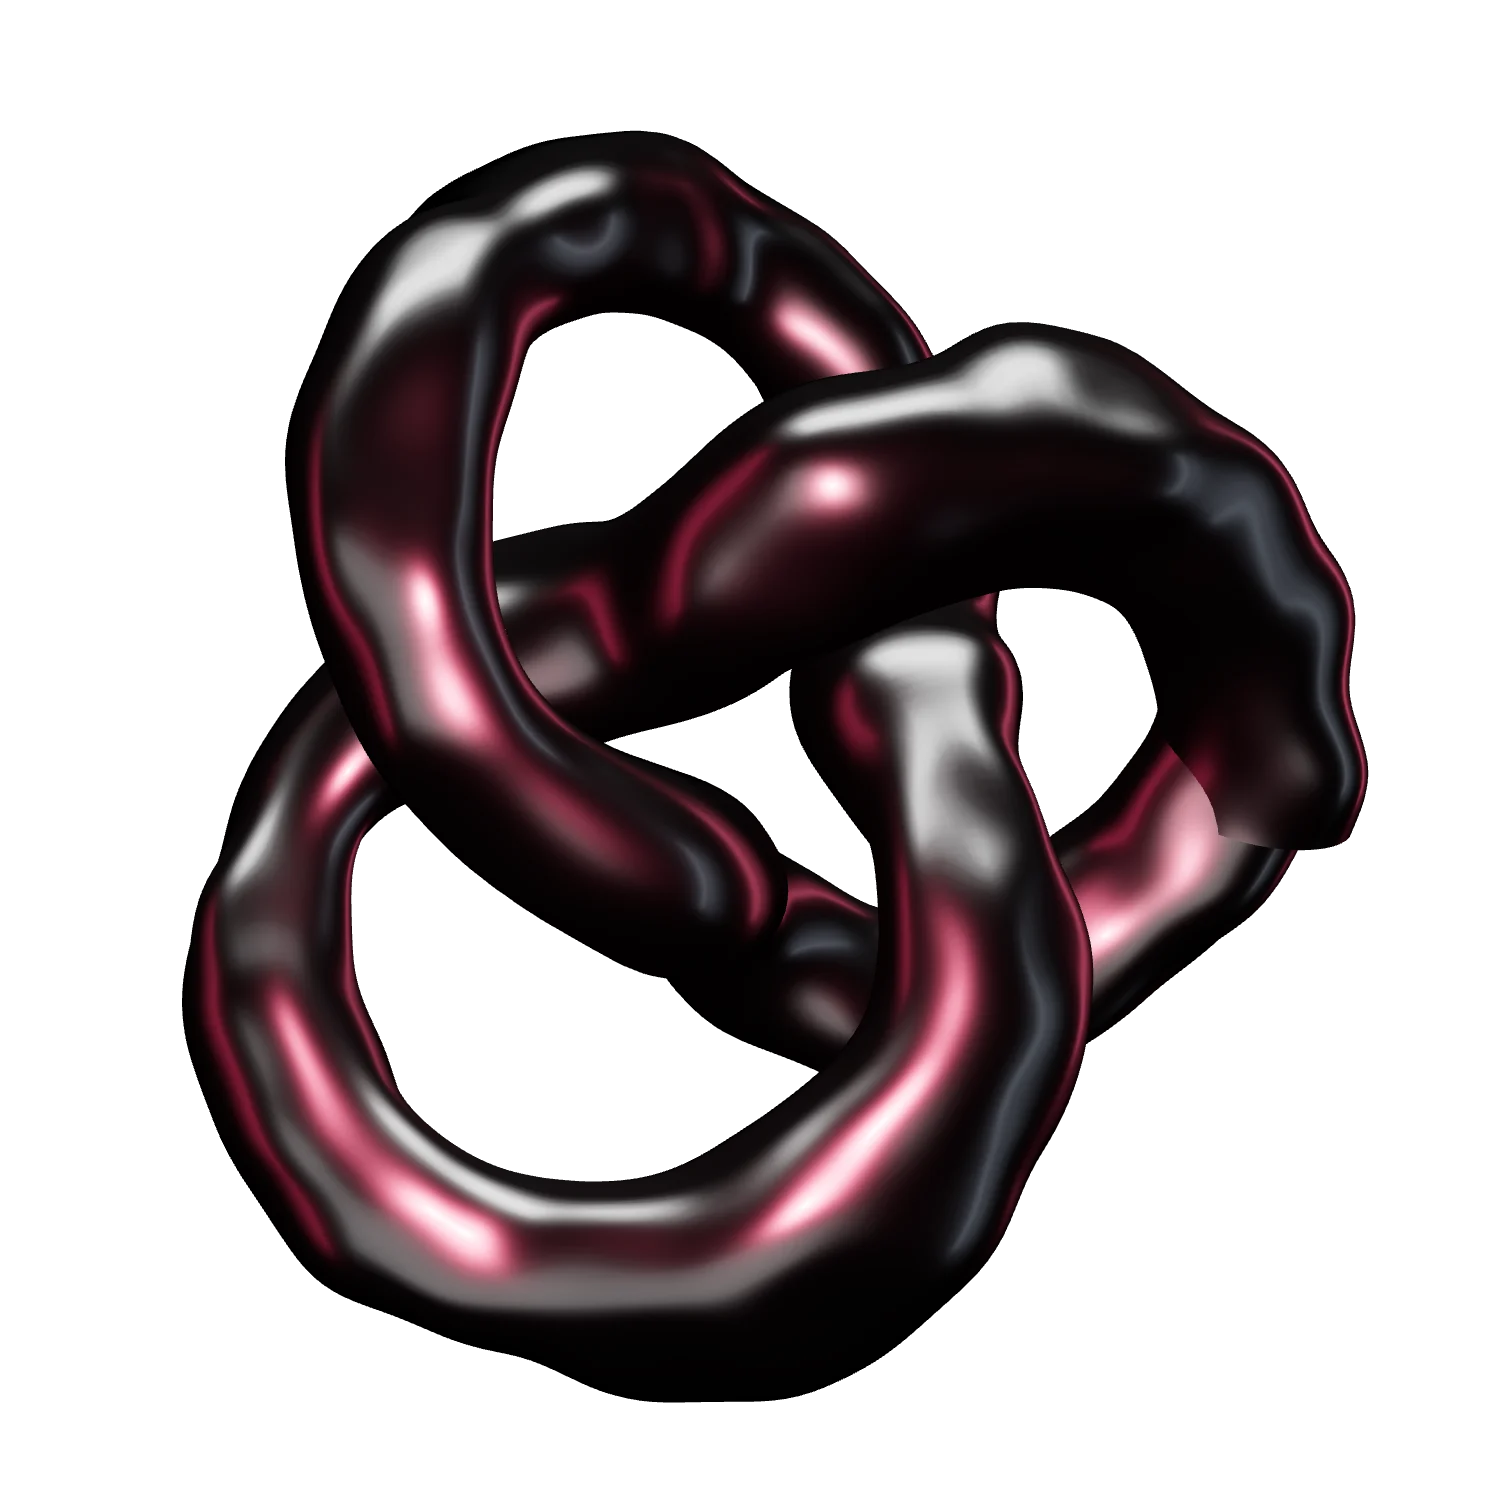
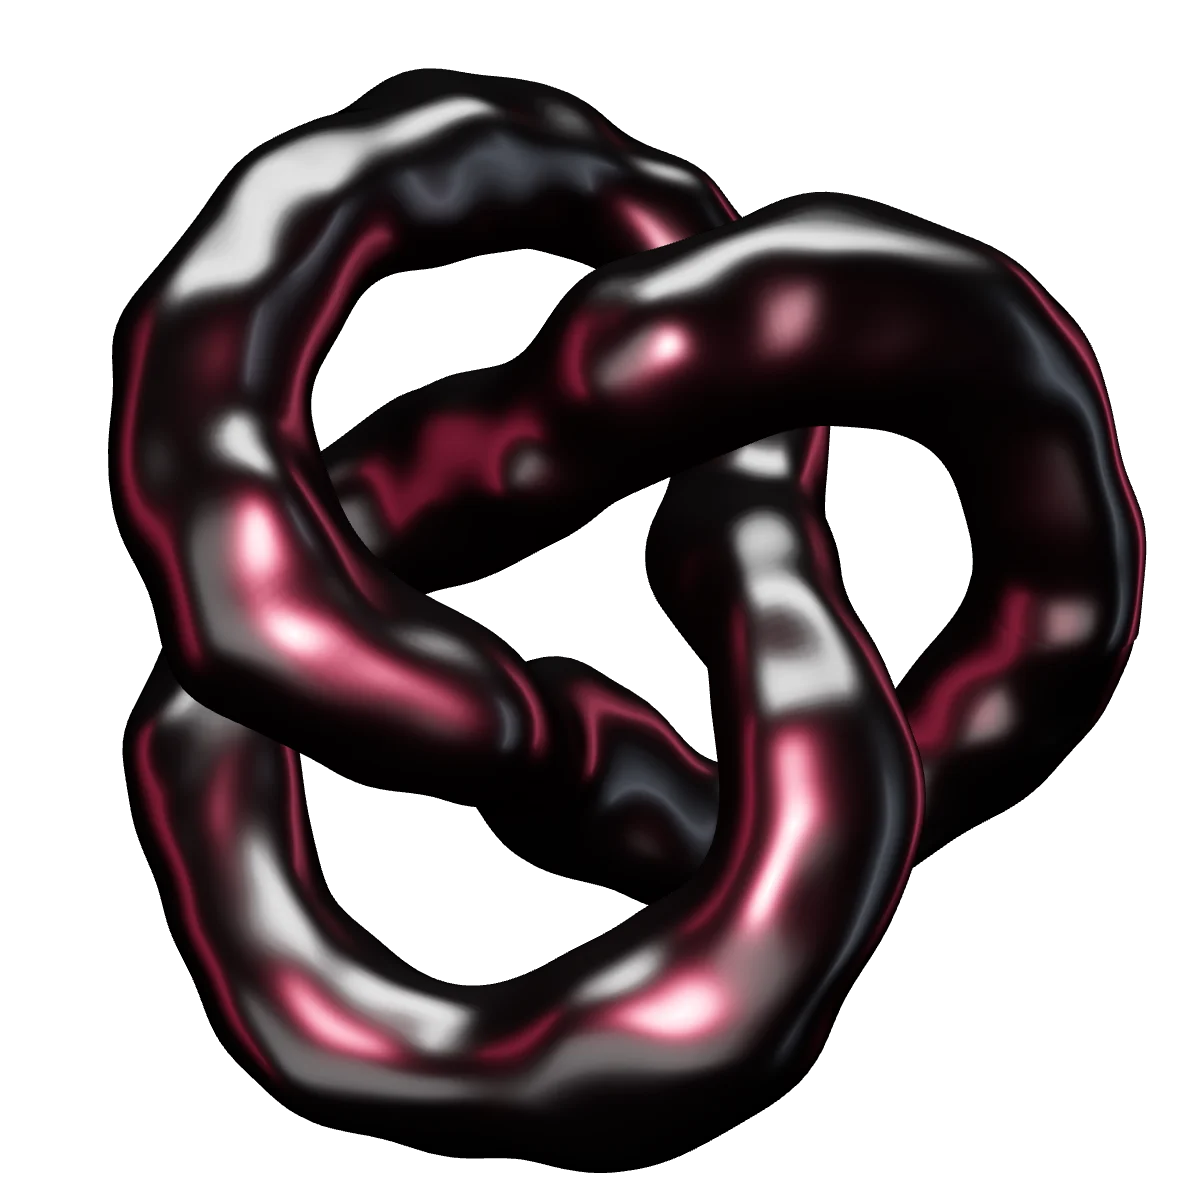
Escultura acorda quando o visitante interage

diff --git a/public/assets/js/escultura.js b/public/assets/js/escultura.js
@@ -22,7 +22,7 @@ const AJUSTES = {
   tamanho: 1.3,
   deformacao: 0.10,
   frequencia: 0.73,
-  velocidade: 1.1,
+  velocidade: 0.6,
   rugosidade: 0.32,
   luzVinho: 6,
 };
@@ -230,9 +230,22 @@ async function esperarRolagemParar() {
  * Liga a escultura a um <canvas>. É assíncrona: monta em etapas e só começa
  * a desenhar quando tudo está pronto.
  * @param {HTMLCanvasElement} canvas
- * @param {{ aoPrimeiroQuadro?: () => void }} opcoes
+ * @param {{ aoPrimeiroQuadro?: () => void, aoMudarEnergia?: (energia: number) => void }} opcoes
  */
-export async function iniciarEscultura(canvas, { aoPrimeiroQuadro } = {}) {
+export async function iniciarEscultura(canvas, { aoPrimeiroQuadro, aoMudarEnergia } = {}) {
+  /* ---- A escultura acorda quando o visitante está presente ----
+     Ela começa quase parada e apagada ("energia" 0). Quando a pessoa rola,
+     toca, mexe o mouse ou aperta uma tecla, ela acorda (energia 1): ganha
+     brilho e volta a se mexer. Depois de alguns segundos sem interação, ela
+     se acalma de novo. É a presença de quem visita que solta o nó.
+     O brilho é aplicado pela página (aoMudarEnergia); aqui fica o movimento. */
+  const SEGUNDOS_ACORDADA = 6;
+  let ultimaInteracao = -Infinity;
+  let energia = 0;
+  for (const ev of ['scroll', 'pointermove', 'touchstart', 'wheel', 'keydown']) {
+    window.addEventListener(ev, () => { ultimaInteracao = performance.now(); }, { passive: true });
+  }
+
   const renderer = new THREE.WebGLRenderer({ canvas, antialias: !ehCelular, alpha: true, powerPreference: 'high-performance' });
   renderer.setClearColor(0x000000, 0);
   renderer.toneMapping = THREE.ACESFilmicToneMapping;
@@ -387,6 +400,13 @@ export async function iniciarEscultura(canvas, { aoPrimeiroQuadro } = {}) {
 
   // Atualiza o estado (tempo, giro, soltura, mouse) sem desenhar
   function atualizar(dt) {
+    if (!preparando) {
+      const acordada = performance.now() - ultimaInteracao < SEGUNDOS_ACORDADA * 1000;
+      // acorda rápido (~0,8 s) e se acalma devagar (~3 s)
+      energia += ((acordada ? 1 : 0) - energia) * Math.min(dt * (acordada ? 2.5 : 0.7), 1);
+      aoMudarEnergia?.(energia);
+      dt *= 0.04 + 0.96 * energia;   // calma, ela fica quase parada
+    }
     uniforms.uTempo.value += dt * AJUSTES.velocidade;
     giro += dt * 0.12 * AJUSTES.velocidade;
 
@@ -422,6 +442,7 @@ export async function iniciarEscultura(canvas, { aoPrimeiroQuadro } = {}) {
       relogio.getDelta();                              // zera o relógio da preparação
       preparando = false;
       primeiro = false;
+      aoMudarEnergia?.(energia);
       aoPrimeiroQuadro?.();
       return;
     }
@@ -429,8 +450,12 @@ export async function iniciarEscultura(canvas, { aoPrimeiroQuadro } = {}) {
     renderer.render(cena, camera);
   }
 
+  let contador = 0;
   function loop() {
-    if (!document.hidden && visivelNaTela) desenhar();
+    contador++;
+    const calma = !primeiro && energia < 0.05;
+    if (calma && contador % 4 !== 0) { /* calma: pula o quadro (economiza bateria); o tempo acumula para o próximo */ }
+    else if (!document.hidden && visivelNaTela) desenhar();
     else relogio.getDelta();                           // descarta o tempo parado
     requestAnimationFrame(loop);
   }

diff --git a/public/assets/css/inicio.css b/public/assets/css/inicio.css
@@ -83,6 +83,27 @@ body {
   transition-delay: 0.6s;
 }
 
+/* ---- A escultura acorda quando o visitante está presente (decisão 0016) --
+   Quando o 3D vai carregar, inicio.js adiciona .escultura--acordavel e a
+   variável --energia passa a ir de 0 (calma) a 1 (acordada), atualizada a
+   cada quadro pela escultura. Calma, ela fica com 35% do brilho.
+   Como o primeiro quadro do 3D é igual à imagem, a troca é instantânea,
+   sem fade. Sem 3D (por exemplo, com "reduzir movimento"), nada disso
+   acontece e a imagem fica com o brilho normal. */
+.escultura--acordavel {
+  --energia: 0;
+}
+
+.escultura--acordavel .escultura__imagem,
+.escultura--acordavel.escultura--viva .escultura__3d {
+  opacity: calc(0.35 + 0.65 * var(--energia));
+  transition: none;
+}
+
+.escultura--acordavel.escultura--viva .escultura__imagem {
+  opacity: 0;
+}
+
 /* Computador (a partir de 1024px): composição editorial.
    O rótulo e o ERK. ocupam a largura toda; embaixo, a frase à esquerda e o
    texto à direita, em colunas de larguras diferentes. A escultura fica

diff --git a/public/assets/js/inicio.js b/public/assets/js/inicio.js
@@ -48,6 +48,8 @@ async function carregar() {
     await iniciarEscultura(canvas, {
       // Só troca a imagem pelo 3D quando o primeiro quadro já foi desenhado
       aoPrimeiroQuadro: () => caixa.classList.add('escultura--viva'),
+      // O brilho acompanha a "energia" da escultura (0 calma, 1 acordada)
+      aoMudarEnergia: (energia) => caixa.style.setProperty('--energia', energia.toFixed(3)),
     });
   } catch (erro) {
     // Se algo falhar, a imagem estática continua lá. Nada quebra.
@@ -62,4 +64,8 @@ function quandoLivre(acao) {
   else window.addEventListener('load', agendar, { once: true });
 }
 
-if (podeCarregar3D()) quandoLivre(carregar);
+if (podeCarregar3D()) {
+  // A imagem já fica "calma" (apagada), igual ao 3D quando ele começar
+  caixa.classList.add('escultura--acordavel');
+  quandoLivre(carregar);
+}

diff --git a/public/index.html b/public/index.html
@@ -46,7 +46,7 @@
       <!-- Escultura "No ties": decorativa, então leitores de tela a ignoram.
            A imagem aparece sempre; o 3D (canvas) só entra por cima quando o aparelho pode. -->
       <div class="escultura" aria-hidden="true">
-        <img class="escultura__imagem" src="/assets/img/escultura-no-ties.webp" alt="" width="1500" height="1500" decoding="async" fetchpriority="low">
+        <img class="escultura__imagem" src="/assets/img/escultura-no-ties.webp" alt="" width="1200" height="1200" decoding="async" fetchpriority="low">
         <canvas class="escultura__3d"></canvas>
       </div>
 

diff --git a/docs/decisoes/0016-escultura-acorda.md b/docs/decisoes/0016-escultura-acorda.md
@@ -1,0 +1,28 @@
+# 0016. A escultura acorda quando o visitante está presente
+
+- **Data:** novembro de 2026
+- **Status:** Aceita. Complementa a [decisão 0015](0015-escultura-na-pagina-inicial.md).
+
+## Contexto
+
+A escultura "No ties" ficava se mexendo o tempo todo. No celular, ainda havia uma pequena travada ao abrir, quando o 3D é preparado. Olhando outros sites, gostei da ideia de uma peça que fica parada até a pessoa começar a usar a página. Comparei três versões no laboratório: a que estava no ar, uma mais lenta, e uma que acorda quando o visitante interage.
+
+## Decisão
+
+A escultura começa **calma**: quase parada e com 35% do brilho. Quando a pessoa rola, toca na tela, mexe o mouse ou aperta uma tecla, ela **acorda** em menos de 1 segundo: ganha brilho total e volta a se mexer. Depois de 6 segundos sem interação, ela **se acalma** de novo, aos poucos.
+
+A velocidade também caiu de 1.1 para 0.6: acordada, ela se move de forma mais lenta e contínua.
+
+## Por quê
+
+- **Combina com No ties:** é a presença de quem visita que faz o nó se mexer e se soltar.
+- **Mais editorial:** a página abre calma, e o movimento vira uma resposta, não um enfeite constante disputando com o texto.
+- **Esconde a travada de preparação:** enquanto o 3D é preparado, nada na tela está se mexendo.
+- **Economiza bateria:** calma, a escultura é desenhada só uma vez a cada quatro quadros.
+
+## Consequências
+
+- Quem abre a página e não mexe em nada vê a escultura parada e apagada.
+- O brilho é controlado por uma variável CSS, `--energia`, que vai de 0 a 1 e é atualizada a cada quadro pela escultura.
+- Sem o 3D (por exemplo, com "reduzir movimento" ligado), a imagem estática fica com o brilho normal.
+- Como a imagem estática e o primeiro quadro do 3D são iguais e têm o mesmo brilho, a troca entre os dois agora é instantânea, sem fade.

diff --git a/docs/entregas.md b/docs/entregas.md
@@ -188,3 +188,15 @@ Gravei a tela do computador e encontrei três problemas:
 3. **O fio solto sumia.** Quando o nó se soltava, o fio ficava quase todo atrás da sombra do texto e cortado pela borda da tela. Subi a escultura, para o centro dela ficar acima da coluna de texto, e diminuí o corte na borda.
 
 **Como confirmei:** comparei o primeiro quadro do 3D com a imagem estática, com o mouse no canto da tela, e a diferença ficou abaixo de 1 numa escala de 0 a 255. Também conferi a escultura fechada e solta na nova posição.
+
+**Velocidade mais calma.** Baixei a velocidade da escultura de 1.1 para 0.6. Ela fica mais perto de uma peça numa galeria do que de uma animação, e qualquer engasgo fica menos perceptível, porque o nó mal sai do lugar. O nó agora leva cerca de 30 segundos para se soltar e se fechar. Como a pose de partida depende da velocidade, gerei a imagem estática de novo.
+
+---
+
+## A escultura acorda quando o visitante está presente
+
+Comparei no laboratório duas versões novas contra a que estava no ar: uma mais lenta e uma que acorda quando o visitante interage. Escolhi a segunda ([decisão 0016](decisoes/0016-escultura-acorda.md)).
+
+**Como ficou:** a escultura começa quase parada e com 35% do brilho. Ao rolar, tocar, mexer o mouse ou apertar uma tecla, ela acorda: ganha brilho e se mexe, mais devagar que antes (velocidade 0.6). Depois de 6 segundos sem interação, ela se acalma de novo. Calma, ela é desenhada com menos frequência, para economizar bateria.
+
+**Como confirmei:** no computador, o brilho foi de 35% (parada) para 95% depois de rolar, e voltou para 40% cerca de 10 segundos depois. No celular, foi para 98% ao tocar. A troca da imagem pelo 3D ficou instantânea, porque os dois começam iguais e com o mesmo brilho.

diff --git a/docs/decisoes/README.md b/docs/decisoes/README.md
@@ -21,3 +21,4 @@ Uso este formato para lembrar dos motivos no futuro e para conseguir explicar ca
 | [0013](0013-destaque-vinho-profundo.md) | Cor de destaque: vinho profundo | Aceita |
 | [0014](0014-threejs.md) | Three.js como primeira biblioteca externa | Aceita |
 | [0015](0015-escultura-na-pagina-inicial.md) | A escultura "No ties" na página inicial, com carregamento progressivo | Aceita |
+| [0016](0016-escultura-acorda.md) | A escultura acorda quando o visitante está presente | Aceita |
